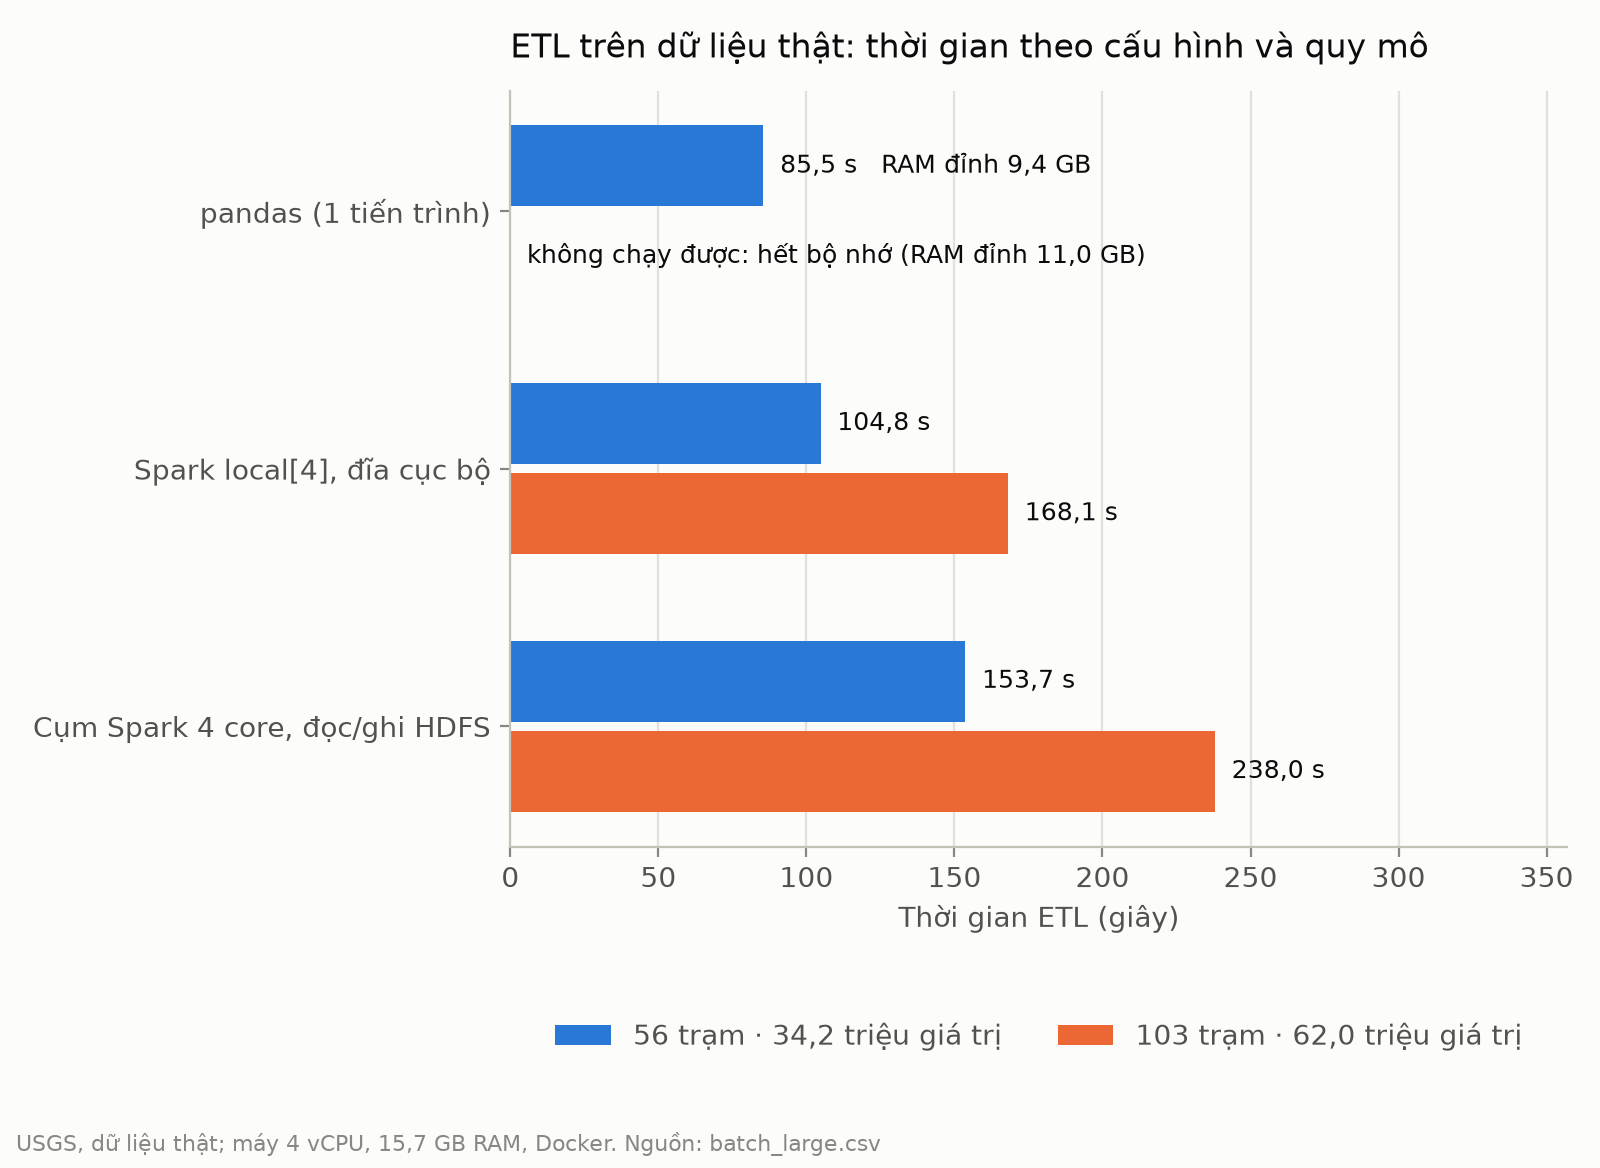
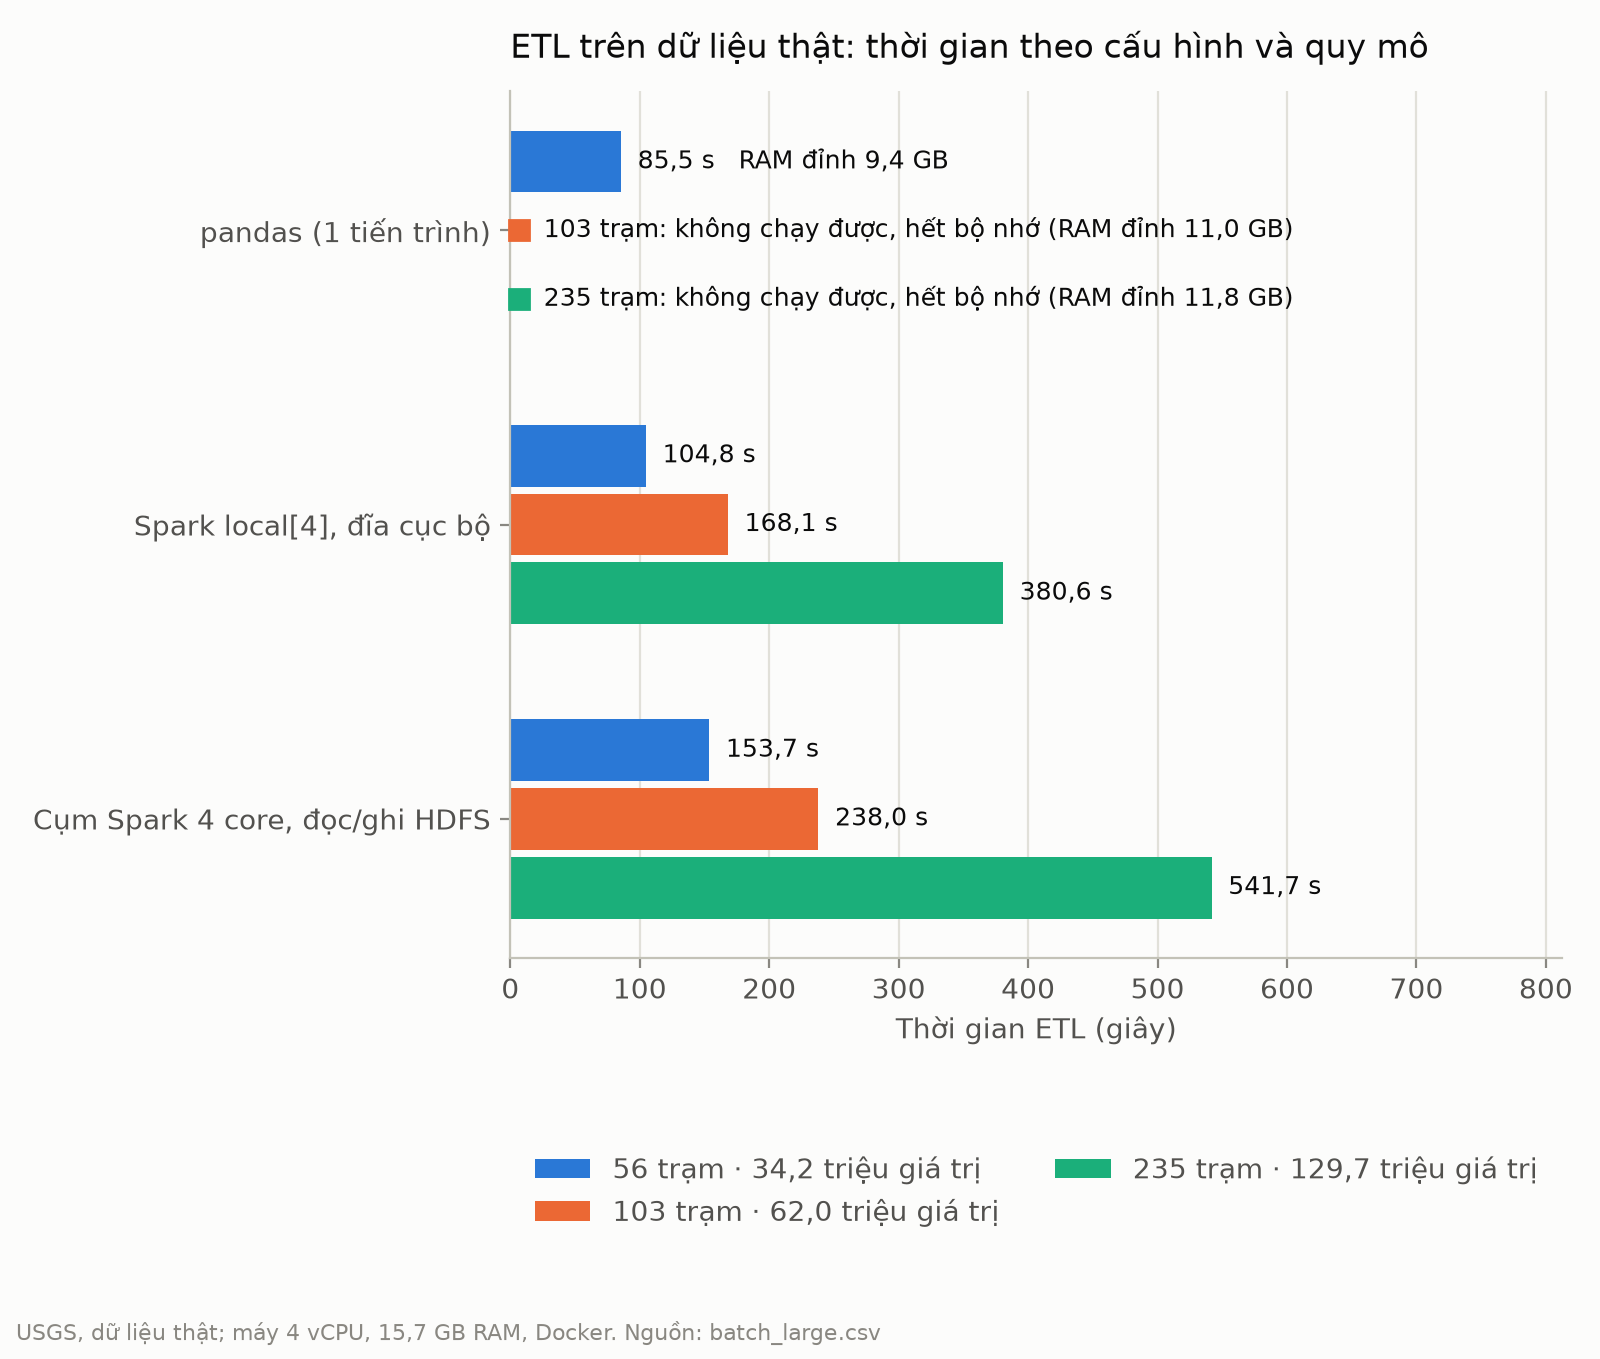
Final large-data snapshot: all 235 stations, 130M values
pandas hits its 12 GB cap and is killed after 88 s. Spark local[4]
finishes in 380.6 s and the cluster on HDFS in 541.7 s, 1.42x local
(the same ratio as at 62M values). Data grew 3.79x since the first
snapshot and Spark time 3.5-3.6x; from 62M to 130M values throughput
drops 7-8%.

The chart now names the snapshot of each failed pandas run. Report
sections 5.8 and 6, the benchmark README, the root README and the TV1
guide carry the new numbers.

Claude-Session: https://claude.ai/code/session_01B22viBRkTNmfsYQWcRK1gN

diff --git a/benchmarks/plot_results.py b/benchmarks/plot_results.py
@@ -187,8 +187,10 @@ def plot_large(res: Path, out: Path) -> None:
                 ok = g[~g.failed]
                 if ok.empty:  # không chạy xong (vd. hết bộ nhớ): không vẽ cột, ghi rõ lý do
                     r = g.iloc[-1]
-                    ax.annotate(f"không chạy được: hết bộ nhớ (RAM đỉnh {vn(r.peak_rss_mb / 1024)} GB)",
-                                (0, pos), xytext=(6, 0), textcoords="offset points", va="center", fontsize=9,
+                    x0 = tmax * 0.012  # ô màu nhận diện quy mô dữ liệu (chữ giữ màu mực)
+                    ax.plot([x0], [pos], marker="s", ms=7, color=SERIES[j], linestyle="none", clip_on=False, zorder=3)
+                    ax.annotate(f"{n} trạm: không chạy được, hết bộ nhớ (RAM đỉnh {vn(r.peak_rss_mb / 1024)} GB)",
+                                (x0, pos), xytext=(9, 0), textcoords="offset points", va="center", fontsize=9,
                                 color=INK)
                     continue
                 t = ok.total_s.median()

diff --git a/docs/report/ch6_ket_luan.md b/docs/report/ch6_ket_luan.md
@@ -17,10 +17,12 @@
 - Thực nghiệm hiệu năng định lượng (máy 4 vCPU): ETL tăng tốc 2,84× khi tăng từ 1 lên 4 core (23,8 triệu giá trị),
   xử lý 47,7 triệu giá trị trong 112 s; streaming bền vững tới 8.000 message/giây với độ trễ p95 4 s, thông lượng
   tối đa ≈ 18.000 bản ghi/giây.
-- Chạy được trên dữ liệu thật quy mô lớn: 103 trạm USGS, 62 triệu giá trị thô, lưu trên HDFS và xử lý trên cụm
-  Spark trong 238 s (Spark local 168 s). Ở khối dữ liệu này pandas hết bộ nhớ và không chạy xong (đã dùng 11 GB),
-  trong khi Spark chạy trong giới hạn driver 6 GB; ở 34 triệu giá trị pandas còn nhanh hơn nhưng đã dùng 9,4 GB.
-  Khoảng cách giữa cụm và local thu hẹp dần: 1,89 lần (6 triệu giá trị), 1,47 lần (34 triệu), 1,42 lần (62 triệu).
+- Chạy được trên dữ liệu thật quy mô lớn: đủ 235 trạm USGS (34 bang, Puerto Rico và British Columbia), 130 triệu
+  giá trị thô, lưu trên HDFS và xử lý trên cụm Spark trong 542 s (Spark local 381 s). Từ 62 triệu giá trị trở lên
+  pandas hết bộ nhớ và không chạy xong (đã dùng 11–11,8 GB), trong khi Spark chạy trong giới hạn driver 6 GB; ở
+  34 triệu giá trị pandas còn nhanh hơn nhưng đã dùng 9,4 GB. Dữ liệu tăng 3,8 lần thì thời gian Spark tăng
+  3,5–3,6 lần. Khoảng cách giữa cụm và local thu hẹp rồi ổn định: 1,89 lần (6 triệu giá trị), 1,47 lần (34 triệu),
+  1,42 lần (62 và 130 triệu).
 - Streaming có điền khuyết và dự báo không mất bản ghi nào với 10, 50 và 100 trạm; số trạm tăng 10 lần thì độ trễ
   p50 tăng 43% (5,5 → 7,9 s ở 1.000 msg/s).
 - [TV3] Phương pháp điền khuyết tốt nhất: [...], giảm RMSE [...]% so với LOCF ở tỉ lệ thiếu 20% liên tục.
@@ -31,12 +33,14 @@
 1. Cụm Spark, HDFS và Kafka chạy trên **một máy vật lý** (các container chia sẻ CPU và ổ đĩa), nên kết quả mở rộng
    theo chiều ngang chỉ mang tính chỉ dẫn: cụm chậm hơn local, ghi HDFS chậm hơn ổ đĩa cục bộ 2,5 lần; ở quy mô dữ
    liệu chuẩn, pandas đơn tiến trình còn nhanh hơn Spark (đã nêu trung thực ở chương 5).
-2. Lúc đo, bộ dữ liệu lớn mới có 103 trên 235 trạm do API của USGS giới hạn tần suất với người dùng không có API key;
-   downloader tải tiếp được, cần chạy thêm vài giờ hoặc dùng API key.
+2. Bộ dữ liệu lớn (235 trạm, 410 MB nén) phải tải nhiều lượt trong khoảng 4 giờ vì API của USGS giới hạn tần suất
+   với người dùng không có API key; muốn thêm trạm cần API key. Ở khối 130 triệu giá trị, thông lượng Spark giảm
+   7–8% so với khối 62 triệu; số partition shuffle chưa được tinh chỉnh theo kích thước dữ liệu.
 3. Dữ liệu thời gian thực được **mô phỏng bằng phát lại** dữ liệu lịch sử, chưa kết nối nguồn cảm biến trực tiếp.
 4. Kafka một broker (replication factor 1) — chưa chịu được lỗi broker; PostgreSQL một nút; HDFS một NameNode
    (chưa bật High Availability).
-5. Data lake gồm nhiều tệp nhỏ (block trung bình dưới 1 MB so với block 128 MB của HDFS), chưa có bước gộp tệp.
+5. Data lake gồm nhiều tệp nhỏ (15.680 tệp, block trung bình khoảng 0,1 MB so với block 128 MB của HDFS), chưa
+   có bước gộp tệp.
 6. Dự báo trực tuyến được phát hành theo từng micro-batch, nên tần suất phát hành phụ thuộc tốc độ phát lại.
 7. Chưa có quản lý vòng đời mô hình (MLflow) và giám sát hạ tầng (Prometheus/Grafana).
 

diff --git a/benchmarks/README.md b/benchmarks/README.md
@@ -95,16 +95,17 @@ nhóm** và thay số liệu; xu hướng mới là điều cần phân tích.
 
 ### Dữ liệu thật quy mô lớn (`bench_large.py` → `results/batch_large.csv`)
 
-Hai lần chốt bộ trạm lớn (danh sách 235 trạm, tải dần vì USGS giới hạn tần suất):
+Ba lần chốt bộ trạm lớn (danh sách 235 trạm, tải dần vì USGS giới hạn tần suất; lần chốt 3 có đủ 235 trạm):
 
-| Cấu hình | 56 trạm · 34,2 triệu giá trị | 103 trạm · 62,0 triệu giá trị |
-|---|---|---|
-| pandas, 1 tiến trình | **85,5 s**, RSS đỉnh 9,4 GB | **không chạy được**: hết bộ nhớ sau 105 s (giới hạn 12 GB) |
-| Spark local[4], đĩa cục bộ | 104,8 s | 168,1 s |
-| Spark cluster 4 core, đọc/ghi HDFS | 153,7 s | 238,0 s |
+| Cấu hình | 56 trạm · 34,2 triệu giá trị | 103 trạm · 62,0 triệu giá trị | 235 trạm · 129,7 triệu giá trị |
+|---|---|---|---|
+| pandas, 1 tiến trình | **85,5 s**, RSS đỉnh 9,4 GB | **không chạy được**: hết bộ nhớ sau 105 s (giới hạn 12 GB) | **không chạy được**: chạm giới hạn 12 GB sau 88 s |
+| Spark local[4], đĩa cục bộ | 104,8 s | 168,1 s | 380,6 s |
+| Spark cluster 4 core, đọc/ghi HDFS | 153,7 s | 238,0 s | 541,7 s |
 
-- pandas nhanh hơn khi còn vừa RAM nhưng hết bộ nhớ ở 62 triệu giá trị; Spark chạy cùng khối dữ liệu với driver 6 GB.
-- Dữ liệu tăng 1,81 lần, thời gian Spark chỉ tăng 1,55–1,60 lần; cluster/local thu hẹp 1,89 → 1,47 → 1,42 lần.
+- pandas nhanh hơn khi còn vừa RAM nhưng hết bộ nhớ từ 62 triệu giá trị; Spark chạy cả 130 triệu giá trị với driver 6 GB.
+- Dữ liệu tăng 3,79 lần (34 → 130 triệu), thời gian Spark tăng 3,52–3,63 lần; cluster/local thu hẹp 1,89 → 1,47 → 1,42 rồi giữ ở 1,42 lần.
+- Từ 62 lên 130 triệu giá trị, thông lượng giảm 7–8%; số partition shuffle (16) chưa được tinh chỉnh theo kích thước dữ liệu.
 - `--pandas-mem-gb 12` giới hạn bộ nhớ tiến trình pandas để nó dừng gọn thay vì để OOM killer làm sập dịch vụ khác.
 
 ![](results/batch_large.png)

diff --git a/README.md b/README.md
@@ -62,6 +62,7 @@ do giới hạn tốc độ của API USGS (script tự tiếp tục từ chỗ 
 | Hạng mục | Kết quả |
 |---|---|
 | Batch ETL 23,8 triệu giá trị | 139 s (1 core) → 49 s (4 core), tăng tốc 2,84×; 47,7 triệu giá trị trong 112 s |
+| Dữ liệu thật 235 trạm USGS, 130 triệu giá trị trên HDFS | pandas hết bộ nhớ; Spark local 381 s, cụm Spark + HDFS 542 s |
 | Streaming Kafka → Spark → PostgreSQL | bền vững tới 8.000 msg/s, độ trễ p50 3,3 s / p95 4,0 s; trần ≈ 18.000 bản ghi/s |
 | Chịu lỗi | kill Spark giữa chừng + 1% dữ liệu trễ + 0,5% trùng ⇒ 0 mất, 0 trùng (2.866/2.866 bản ghi) |
 
